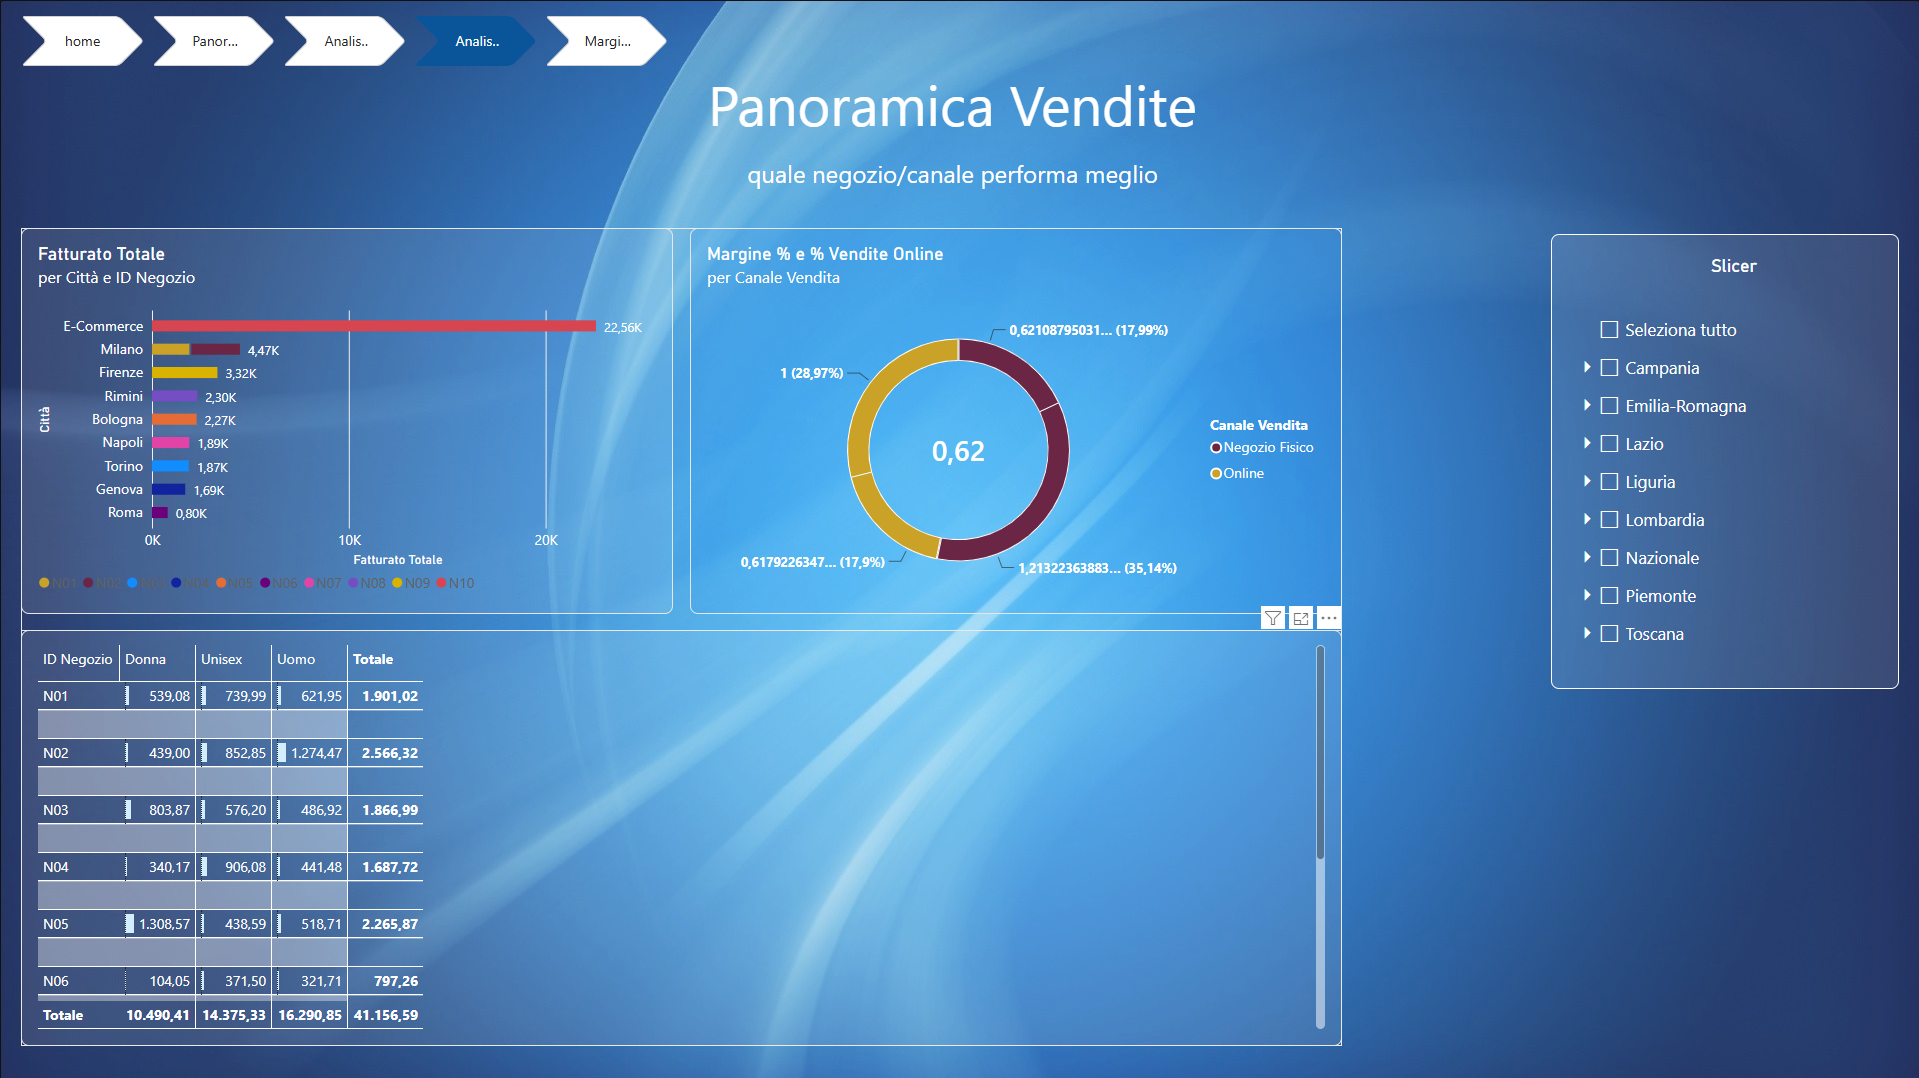
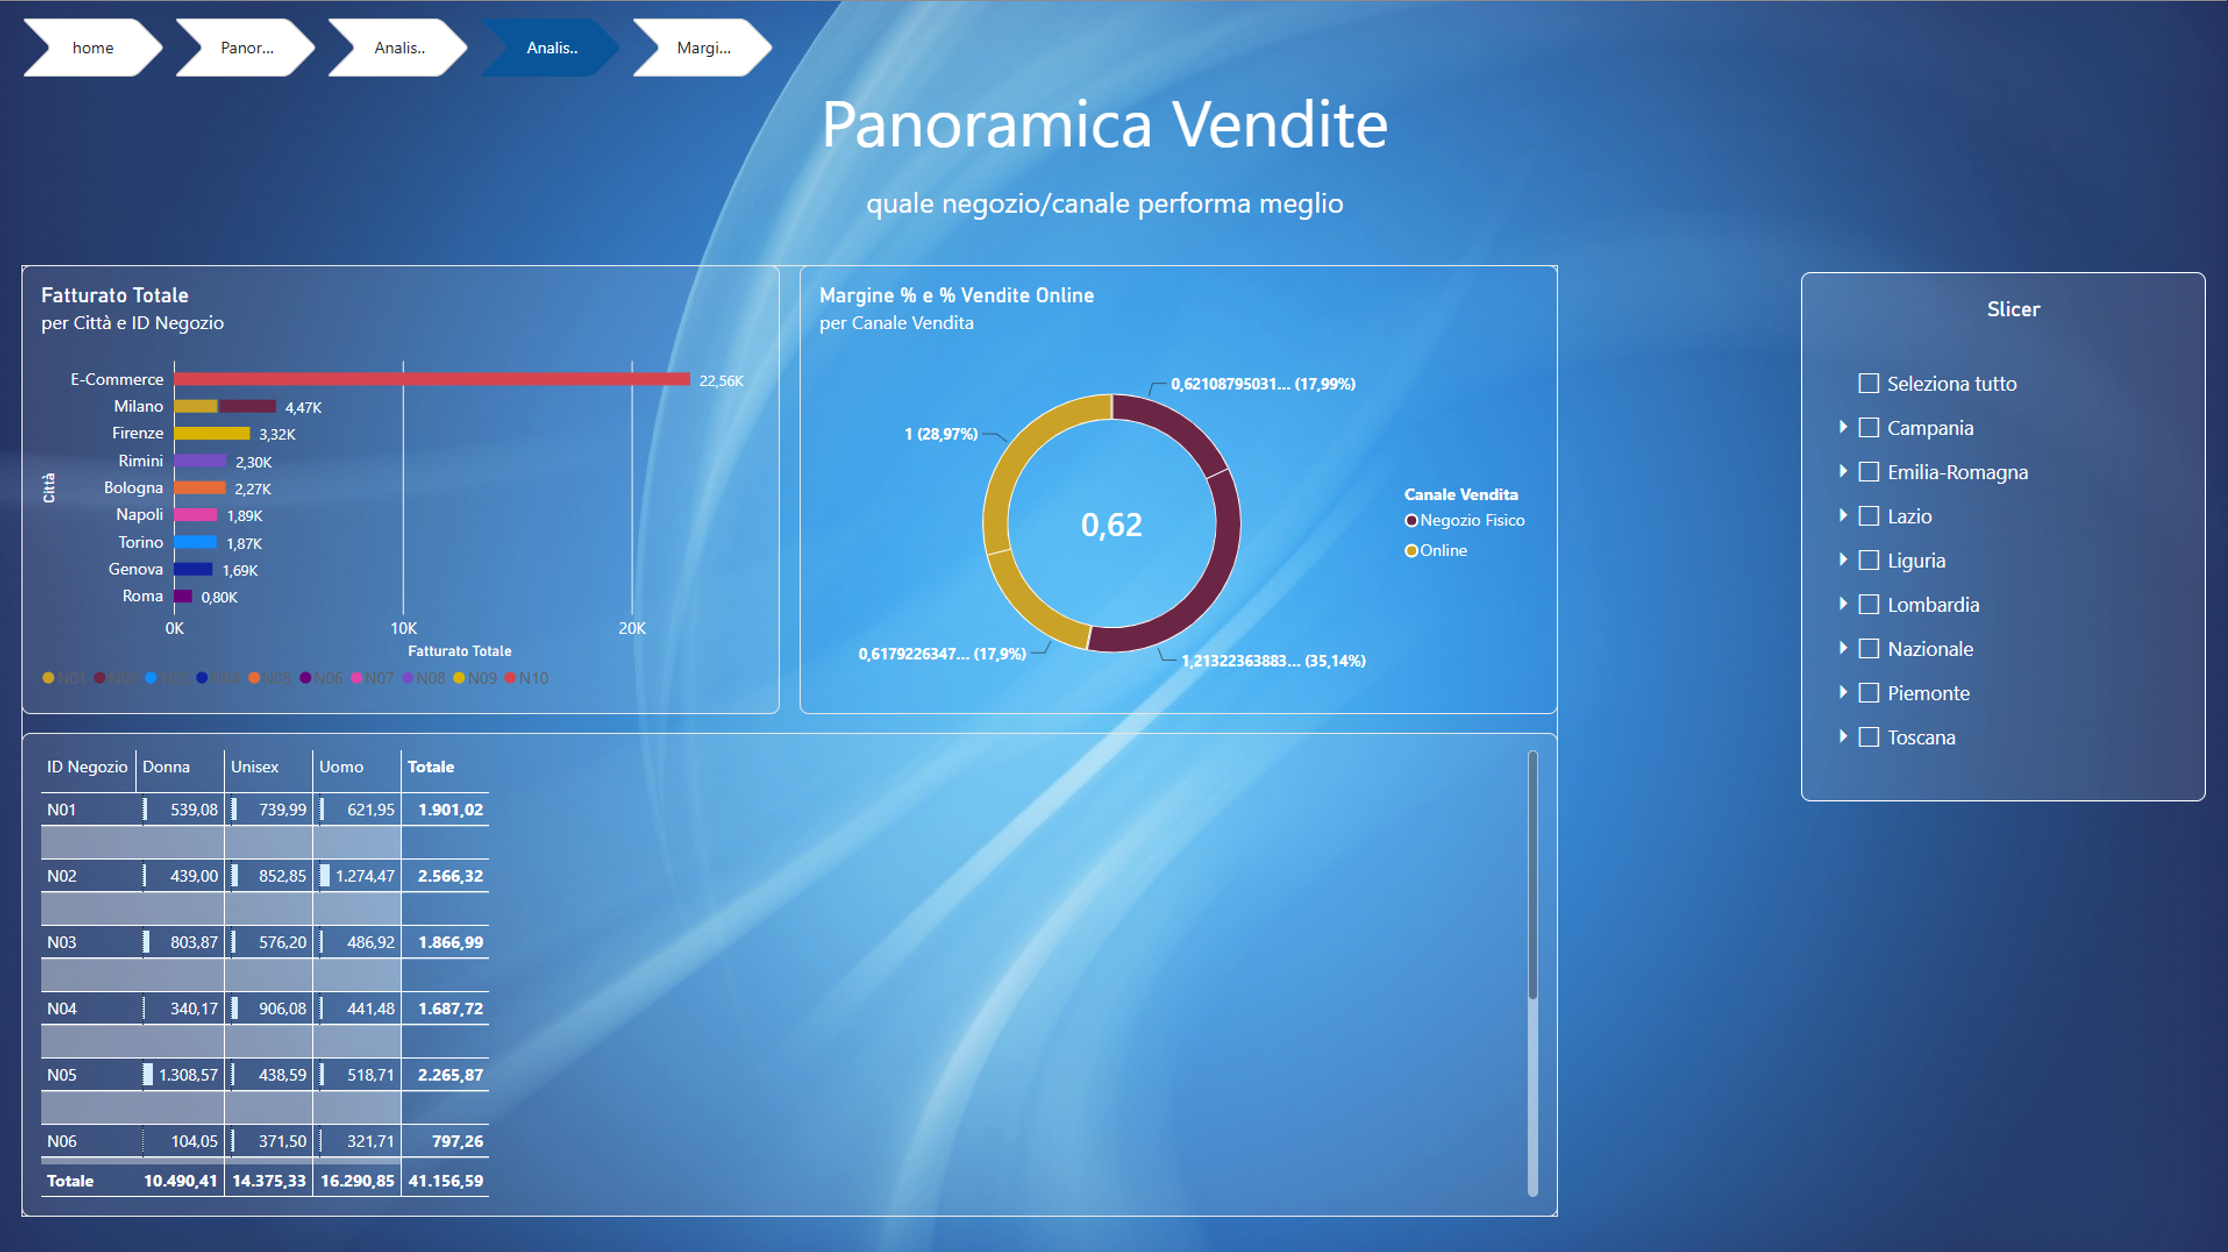
caption-responsive

diff --git a/asset/style.css b/asset/style.css
@@ -49,7 +49,7 @@ footer p {
 }
 
 /* ====================================
-   CAROUSEL / HERO SLIDE PREMIUM - PlayStation Style
+  CAROUSEL / HERO SLIDE
    ==================================== */
 .carousel-premium {
   width: 100%;
@@ -90,9 +90,10 @@ footer p {
   position: absolute;
   inset: 0;
   display: flex;
-  align-items: center;
+  align-items: flex-start;
   z-index: 3;
-  padding: 0 3rem;
+  box-sizing: border-box;
+  padding: 24% 3rem 0;
 }
 
 .carousel-text-left {
@@ -202,8 +203,8 @@ footer p {
 }
 
 .indicator-thumb img {
-  width: 100%;
-  height: 100%;
+  width: 80%;
+  height: 80%;
   object-fit: cover;
   display: block;
 }
@@ -263,9 +264,18 @@ footer p {
   text-shadow: 0 1px 3px rgba(0, 0, 0, 0.3);
 }
 
-@media (max-width: 768px) {
+@media (max-width: 1024px) {
+  .carousel-premium {
+    height: 82vh;
+    min-height: 460px;
+  }
+
+  .carousel-thumbnails-section {
+    display: none;
+  }
+
   .carousel-item {
-    min-height: 250px;
+    min-height: 450px;
   }
 
   .carousel-caption h5 {
@@ -745,7 +755,19 @@ footer p {
 /* ====================================
    MOBILE RESPONSIVE (max-width: 991.98px)
    ==================================== */
-@media (max-width: 991.98px) {
+@media (max-width: 768px) {
+    #caption {
+      padding: 12% 1.5rem 0;
+    }
+  }
+
+  @media (max-width: 375px) {
+    #caption {
+      padding: 55% 1.5rem 0;
+    }
+  }
+
+   @media (max-width: 991.98px) {
   body {
     padding-top: 0;
     padding-bottom: calc(92px + env(safe-area-inset-bottom));
@@ -756,9 +778,16 @@ footer p {
     height: clamp(360px, 56.25vw, 800px);
   }
 
+  #caption {
+    padding: 3% 1.5rem 0;
+  }
+
+  
+
+
+
   .carousel-content-left {
-    padding: 0 1.5rem;
-    transform: translateY(15%);
+    padding: 11% 1.5rem 0;
   }
 
   .carousel-text-left {
@@ -803,12 +832,12 @@ footer p {
   /* Thumbnails on Mobile */
   .carousel-indicators-thumbnails {
     bottom: 1rem;
-    gap: 0.5rem;
+    gap: 0.75rem;
   }
 
   .indicator-thumb {
-    width: 80px;
-    height: 50px;
+    width: 144px;
+    height: 93.6px;
   }
 
   /* Main content padding per compensare il body padding tolto */
@@ -1291,10 +1320,6 @@ footer p {
 @media (min-width: 992px) and (max-width: 1440px) {
   .carousel-premium {
     height: 40vw;
-  }
-
-  .carousel-content-left {
-    transform: translateY(15%);
   }
 }
 

diff --git a/index.php b/index.php
@@ -38,12 +38,15 @@ if (!$articoli) {
   <div class="carousel-progress-bar"></div>
 
   <!-- The slideshow/carousel -->
+   
   <div class="carousel-inner">
+
+
     <div class="carousel-item active">
       <img src="asset/image/Screenshot 2026-09-03 153756.png" alt="Hero Slide 1" class="d-block w-100 carousel-media">
       <div class="carousel-overlay"></div>
-      <div class="carousel-content-left">
-        <div class="carousel-text-left">
+       <div id="content" class="carousel-content-left">
+        <div id="caption" class="carousel-text-left">
           <h2>Benvenuto su W3S</h2>
           <p class="carousel-subtitle">Scopri i nostri contenuti</p>
           <p class="carousel-description">Accedi alle risorse esclusive e migliora le tue competenze con i nostri articoli e esercizi pratici.</p>
@@ -51,11 +54,13 @@ if (!$articoli) {
         </div>
       </div>
     </div>
+
+
     <div class="carousel-item">
       <img src="asset/image/chicago.jpg" alt="Hero Slide 2" class="d-block w-100 carousel-media">
       <div class="carousel-overlay"></div>
       <div class="carousel-content-left">
-        <div class="carousel-text-left">
+        <div id="caption" class="carousel-text-left">
           <h2>Impara con noi</h2>
           <p class="carousel-subtitle">Contenuti esclusivi</p>
           <p class="carousel-description">Articoli, esercizi e risorse per approfondire le tue conoscenze tecniche.</p>
@@ -63,11 +68,13 @@ if (!$articoli) {
         </div>
       </div>
     </div>
+
+
     <div class="carousel-item">
       <img src="asset/image/ny.jpg" alt="Hero Slide 3" class="d-block w-100 carousel-media">
       <div class="carousel-overlay"></div>
       <div class="carousel-content-left">
-        <div class="carousel-text-left">
+        <div id="caption" class="carousel-text-left">
           <h2>Migliora le tue competenze</h2>
           <p class="carousel-subtitle">Risorse premium</p>
           <p class="carousel-description">Accedi a una vasta collezione di materiali didattici e guide complete.</p>
